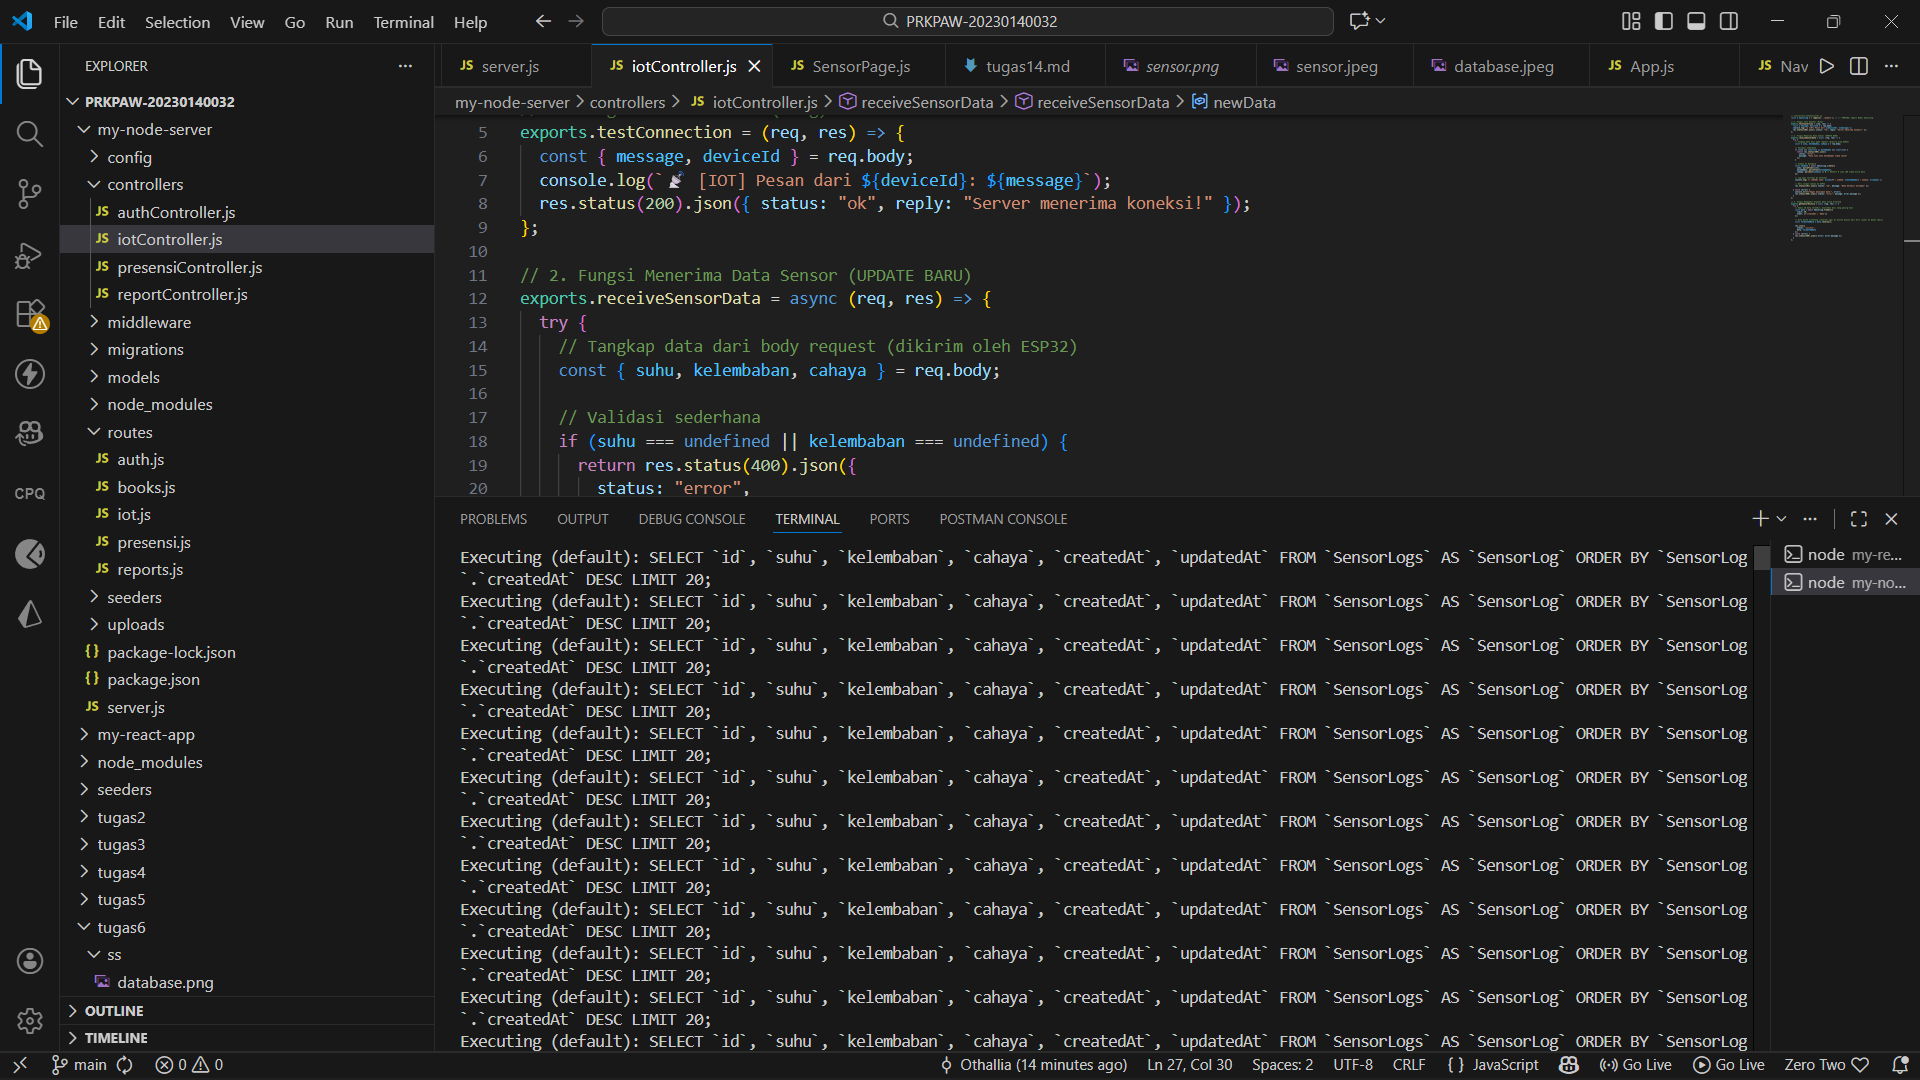
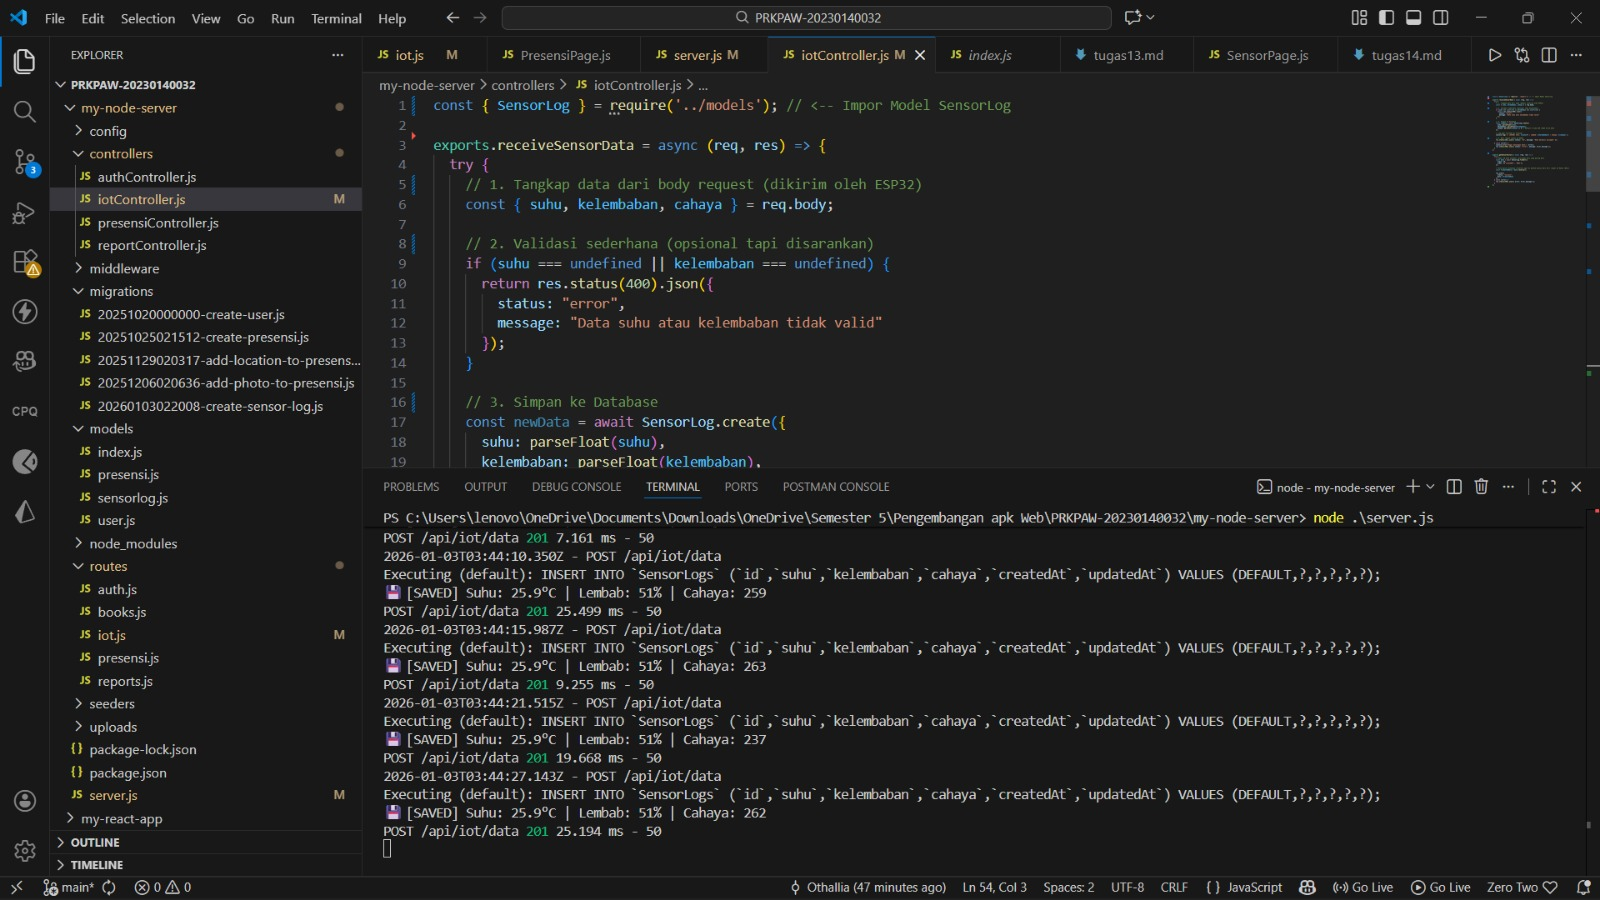
memperbarui foto

diff --git a/my-node-server/controllers/iotController.js b/my-node-server/controllers/iotController.js
@@ -1,20 +1,11 @@
-// controllers/iotController.js
-const { SensorLog } = require('../models'); // <-- PENTING: Import Model SensorLog
+const { SensorLog } = require('../models'); // <-- Impor Model SensorLog
 
-// 1. Fungsi Test Koneksi (Ping)
-exports.testConnection = (req, res) => {
-  const { message, deviceId } = req.body;
-  console.log(`📡 [IOT] Pesan dari ${deviceId}: ${message}`);
-  res.status(200).json({ status: "ok", reply: "Server menerima koneksi!" });
-};
-
-// 2. Fungsi Menerima Data Sensor (UPDATE BARU)
 exports.receiveSensorData = async (req, res) => {
   try {
-    // Tangkap data dari body request (dikirim oleh ESP32)
+    // 1. Tangkap data dari body request (dikirim oleh ESP32)
     const { suhu, kelembaban, cahaya } = req.body;
 
-    // Validasi sederhana
+    // 2. Validasi sederhana (opsional tapi disarankan)
     if (suhu === undefined || kelembaban === undefined) {
       return res.status(400).json({ 
         status: "error", 
@@ -22,7 +13,7 @@ exports.receiveSensorData = async (req, res) => {
       });
     }
 
-    // Simpan ke Database
+    // 3. Simpan ke Database
     const newData = await SensorLog.create({
       suhu: parseFloat(suhu),
       kelembaban: parseFloat(kelembaban),
@@ -32,7 +23,7 @@ exports.receiveSensorData = async (req, res) => {
     // Log agar terlihat di terminal
     console.log(`💾 [SAVED] Suhu: ${suhu}°C | Lembab: ${kelembaban}% | Cahaya: ${cahaya}`);
 
-    // Beri respon sukses ke ESP32
+    // 4. Beri respon sukses ke ESP32
     res.status(201).json({ status: "ok", message: "Data berhasil disimpan" });
 
   } catch (error) {
@@ -41,7 +32,7 @@ exports.receiveSensorData = async (req, res) => {
   }
 };
 
-// 3. Fungsi Mengambil Riwayat Data untuk Frontend
+
 exports.getSensorHistory = async (req, res) => {
   try {
     // Ambil 20 data terakhir, diurutkan dari yang paling baru

diff --git a/my-node-server/server.js b/my-node-server/server.js
@@ -5,7 +5,7 @@ const app = express();
 const PORT = 3001;
 const morgan = require("morgan");
 const iotRoutes = require("./routes/iot");
-app.use("/api/iot", iotRoutes);
+
 
 // Folder uploads agar bisa diakses browser [cite: 63]
 app.use('/uploads', express.static(path.join(__dirname, 'uploads')));
@@ -33,6 +33,7 @@ app.use("/api/books", ruteBuku);
 app.use("/api/presensi", presensiRoutes);
 app.use("/api/reports", reportRoutes);
 app.use("/api/auth", authRoutes);
+app.use("/api/iot", iotRoutes);
 
 app.listen(PORT, () => {
   console.log(`Express server running at http://localhost:${PORT}/`);

diff --git a/my-node-server/routes/iot.js b/my-node-server/routes/iot.js
@@ -5,11 +5,9 @@ const iotController = require('../controllers/iotController');
 // Endpoint penerima data sensor
 // URL: http://localhost:3001/api/iot/data
 
-router.post('/ping', iotController.testConnection);
 
 router.post('/data', iotController.receiveSensorData);
-
-// routes/iot.js
+// Endpoint untuk mendapatkan riwayat data sensor
 router.get('/history', iotController.getSensorHistory);
 
 module.exports = router;

diff --git a/tugas13/tugas13.md b/tugas13/tugas13.md
@@ -1,8 +1,11 @@
 #Tugas 13
 
 1. Tampilan  terminal
-![Tampilan checkin](ss/terminal.png)
+![Tampilan terminal](ss/terminal.png)
 
 
 2. Tampilan  database
-![Tampilan checkin](ss/database.png)
+![Tampilan database](ss/database.jpeg)
+
+2. Tampilan  arduino
+![Tampilan arduino](ss/arduino.png)

diff --git a/tugas14/tugas14.md b/tugas14/tugas14.md
@@ -1,8 +1,8 @@
 #Tugas 14
 
 1. Tampilan  sensorlog
-![Tampilan checkin](ss/sensor.jpeg)
+![Tampilan sensor](ss/sensor.png)
 
 
 2. Tampilan  database
-![Tampilan checkin](ss/database.jpeg)
+![Tampilan database](ss/database.png)
